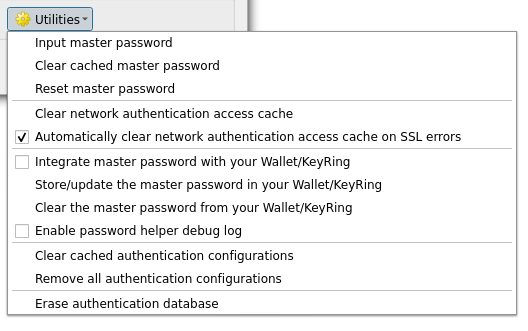
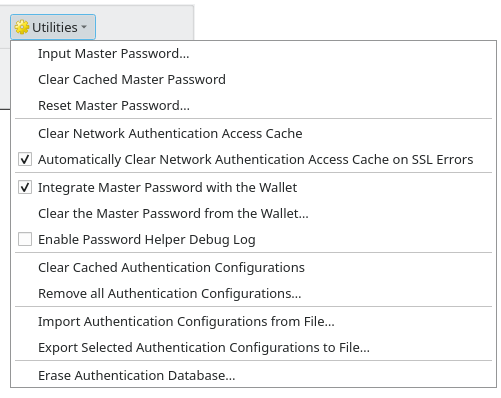
Another round of authentication dialogs update (#10596)
(cherry picked from commit e8ee67d778d4c636716237086bca44c9b1882e43)

Changed region(s): [[0.0, 0.0, 1.0, 0.9668], [0.0599, 0.2417, 0.6287, 0.3625], [0.0599, 0.1813, 0.4491, 0.2115]]

diff --git a/docs/user_manual/auth_system/auth_overview.rst b/docs/user_manual/auth_system/auth_overview.rst
@@ -157,7 +157,7 @@ the :guilabel:`Authentication` tab of the QGIS Options dialog
 
 .. _figure_authconfigeditor:
 
-.. figure:: img/auth-editor-configs2.png
+.. figure:: img/options_authentication.png
    :align: center
 
    Configurations editor
@@ -247,7 +247,7 @@ button to remove all entries.
 
 .. _figure_authmethod_api:
 
-.. figure:: img/auth_method_api_header.png
+.. figure:: img/auth-method-api-header.png
    :align: center
 
    API Header authentication configs
@@ -260,7 +260,7 @@ a :guilabel:`Name`, :guilabel:`Resource`, :guilabel:`Username`, :guilabel:`Passw
 
 .. _figure_authmethod_awss3:
 
-.. figure:: img/auth_method_awss3.png
+.. figure:: img/auth-method-awss3.png
    :align: center
 
    AWS S3 authentication configs
@@ -273,7 +273,7 @@ with a :guilabel:`Username`, :guilabel:`Password` and :guilabel:`Realm`.
 
 .. _figure_authmethod_http:
 
-.. figure:: img/auth-config-create_basic-auth.png
+.. figure:: img/auth-method-basic-auth.png
    :align: center
 
    Basic HTTP authentication configs
@@ -285,7 +285,7 @@ The ESRI token authentication method is used for :ref:`ArcGIS REST Servers <arcg
 
 .. _figure_authmethod_esritoken:
 
-.. figure:: img/auth-config-create_esritoken.png
+.. figure:: img/auth-method-esritoken.png
    :align: center
 
    ESRI Token authentication configs
@@ -297,7 +297,7 @@ The Identity certificate authentication method allows you to connect using a cli
 
 .. _figure_authmethod_identitycert:
 
-.. figure:: img/auth_method_identity_cert.png
+.. figure:: img/auth-method-identity-cert.png
    :align: center
 
    Identity-cert authentication configs
@@ -309,7 +309,7 @@ The MapTiler HMAC-SHA256 authentication method is used to connect to MapTiler se
 
 .. _figure_authmethod_maptiler:
 
-.. figure:: img/auth_method_maptiler.png
+.. figure:: img/auth-method-maptiler.png
    :align: center
 
    MapTiler HmacSha256 authentication configs
@@ -326,7 +326,7 @@ allowing secure access using client credential and token-based authentication.
 
 .. _figure_authmethod_oauth2:
 
-.. figure:: img/auth-config-create_oauth2.png
+.. figure:: img/auth-method-oauth2.png
    :align: center
 
    OAuth2 authentication configs
@@ -338,7 +338,7 @@ The PKI-Paths authentication method allows you to connect using separate certifi
 
 .. _figure_authmethod_pki:
 
-.. figure:: img/auth-config-create_pem-der-paths.png
+.. figure:: img/auth-method-pem-der-paths.png
    :align: center
 
    PKI paths authentication configs
@@ -351,7 +351,7 @@ containing both the certificate and private key, with an optional passphrase for
 
 .. _figure_authmethod_pkcs:
 
-.. figure:: img/auth-config-create_pkcs12-paths.png
+.. figure:: img/auth-method-pkcs12-paths.png
    :align: center
 
    PKI PKCS#12 file paths authentication configs
@@ -371,46 +371,42 @@ authentication database and configurations:
 
    Utilities menu
 
-* **Input master password**: opens the master password input dialog, independent
+* :guilabel:`Input master password…`: opens the master password input dialog, independent
   of performing any authentication database command
-* **Clear cached master password**: unsets the master password if it has been
+* :guilabel:`Clear cached master password`: unsets the master password if it has been
   set
-* **Reset master password**: opens a dialog to change the master password (the
+* :guilabel:`Reset master password…`: opens a dialog to change the master password (the
   current password must be known) and optionally back up the current database
-* **Clear network authentication access cache**: clears the authentication cache
+* :guilabel:`Clear network authentication access cache`: clears the authentication cache
   of all connections
-* **Automatically clear network authentication access cache on SSL errors**: the
+* :guilabel:`Automatically clear network authentication access cache on SSL errors`: the
   connection cache stores all authentication data for connections, also when the
   connection fails. If you change authentication configurations or certification authorities,
   you should clear the authentication cache
   or restart QGIS. When this option is checked, the authentication cache will be
   automatically cleared every time an SSL error occurs and you choose to abort
   the connection
-* **Integrate master password with your Wallet/Keyring**: adds the master
+* :guilabel:`Integrate master password with the Wallet`: adds the master
   password to your personal Wallet/Keyring
-* **Store/update the master password in your Wallet/Keyring**: updates the
-  changed master password in your Wallet/Keyring
-* **Clear the master password from your Wallet/Keyring**: deletes the master
+* :guilabel:`Clear the master password from the Wallet…`: deletes the master
   password from your Wallet/Keyring
-* **Enable password helper debug log**: enables a debug tool that will contain
+* :guilabel:`Enable password helper debug log`: enables a debug tool that will contain
   all the log information of the authentication methods
-* **Clear cached authentication configurations**: clears the internal lookup cache
+* :guilabel:`Clear cached authentication configurations`: clears the internal lookup cache
   for configurations, used to speed up network connections. This does not clear
   QGIS’s core network access manager’s cache, which requires a relaunch of QGIS.
-* **Remove all authentication configurations**: clears the database of all
+* :guilabel:`Remove all authentication configurations…`: clears the database of all
   configuration records, without removing other stored records.
-* **Erase authentication database**: schedules a backup of the current database
+* :guilabel:`Import authentication configurations from file…`: imports from an :file:`.XML` file
+  details for creating custom authentication configurations.
+* :guilabel:`Export selected authentication configurations to file…`: exports the selected
+  items to a possibly encrypted :file:`.XML` file.
+* :guilabel:`Erase authentication database…`: schedules a backup of the current database
   and complete rebuild of the database table structure. The actions are
   scheduled for a later time, to ensure that other operations, like project
   loading, do not interrupt the operation or cause errors due to a temporarily
   missing database.
 
-  .. _figure_authconfiutilsdb:
-
-  .. figure:: img/auth-db-erase.png
-     :align: center
-
-     DB erase verification menu
 
 Using authentication configurations
 -----------------------------------
@@ -423,20 +419,14 @@ third-party PyQGIS or C++ plugins.
 When using the selector, :guilabel:`No authentication` is displayed in the
 pop-up menu control when nothing is selected, when there are no configurations
 to choose from, or when a previously assigned configuration can no longer be
-found in the database. The :guilabel:`Type` and :guilabel:`Id` fields are
-read-only and provide a description of the authentication method and the
-config’s ID respectively.
+found in the database. Use the drop-down menu to select an existing authentication
+configuration or press |symbologyAdd| :sup:`Create a new autentication configuration`
+to create a configuration you could use.
+More details at :ref:`authentication`.
 
 .. _figure_authconfigselector:
 
-.. figure:: img/auth-selector-no-authentication.png
-   :align: center
-
-   Authentication configuration selector with no authentication
-
-.. _figure_authconfigselector_pkcs:
-
-.. figure:: img/auth-selector-pkcs12-authentication.png
+.. figure:: img/authentication-selector-set.png
    :align: center
 
    Authentication configuration selector with selected config
@@ -444,7 +434,7 @@ config’s ID respectively.
 Python bindings
 ---------------
 
-All classes and public functions have sip bindings, except ``QgsAuthCrypto``,
+All classes and public functions have sip bindings, except :api:`QgsAuthCrypto <classQgsAuthCrypto.html>`,
 since management of the master password hashing and auth database encryption
 should be handled by the main app, and not via Python.
 

diff --git a/docs/user_manual/auth_system/auth_workflows.rst b/docs/user_manual/auth_system/auth_workflows.rst
@@ -73,7 +73,7 @@ Manager**, which can be accessed in the :guilabel:`Authentication` tab in QGIS
 
 .. _figure_auth_pki_certif:
 
-.. figure:: img/auth-open-Certificate-manager.png
+.. figure:: img/options_authentication.png
    :align: center
 
    Opening the Certificate Manager
@@ -137,27 +137,12 @@ certificate will not be saved to the database unless the |fileSave|
 *per* selected certification. Closing the dialog will **not** apply the
 policy changes.
 
-.. _figure_auth_pki_policy:
-
-.. figure:: img/auth-authority-edit-trust_save-not-close.png
-   :align: center
-
-   Saving the trust policy changes
-
 You can review the filtered CAs, both intermediate and root certificates, that
 will be trusted for secure connections or change the default trust policy by
 clicking the |transformSettings| **Options** button.
 
 .. warning::
-   Changing the default trust policy may result in problems with secure
-   connections.
-
-.. _figure_auth_pki_options:
-
-.. figure:: img/auth-editor-authorities_utilities-menu.png
-   :align: center
-
-   Authorities options menu
+   Changing the default trust policy may result in problems with secure connections.
 
 You can import CAs or save a file system path from a file that contains multiple
 CAs, or import individual CAs. The standard PEM format for files that contain
@@ -223,19 +208,13 @@ prior to import. Likewise, if the client certificate in the bundle is invalid
 (for example, its effective date has not yet started or has elapsed) the bundle
 can not be imported.
 
-.. _figure_auth_pki_identities_import:
+.. _figure_auth_identities_import:
 
-.. figure:: img/auth-identity-import_paths.png
+.. figure:: img/auth-identity-imports.png
    :align: center
 
-   PEM/DER identity import
+   PEM/DER and PKCS#12 identities import
 
-.. _figure_auth_pki_identities_import_2:
-
-.. figure:: img/auth-identity-import_bundle-valid.png
-   :align: center
-
-   PKCS#12 identity import
 
 Handling bad layers
 -------------------

diff --git a/docs/user_manual/introduction/qgis_configuration.rst b/docs/user_manual/introduction/qgis_configuration.rst
@@ -1172,7 +1172,7 @@ To manage authentications, you can use the list of tools next to the frame, ie:
 
 .. _figure_authentication_settings:
 
-.. figure:: ../auth_system/img/auth-editor-configs2.png
+.. figure:: ../auth_system/img/options_authentication.png
    :align: center
 
    Authentication settings
